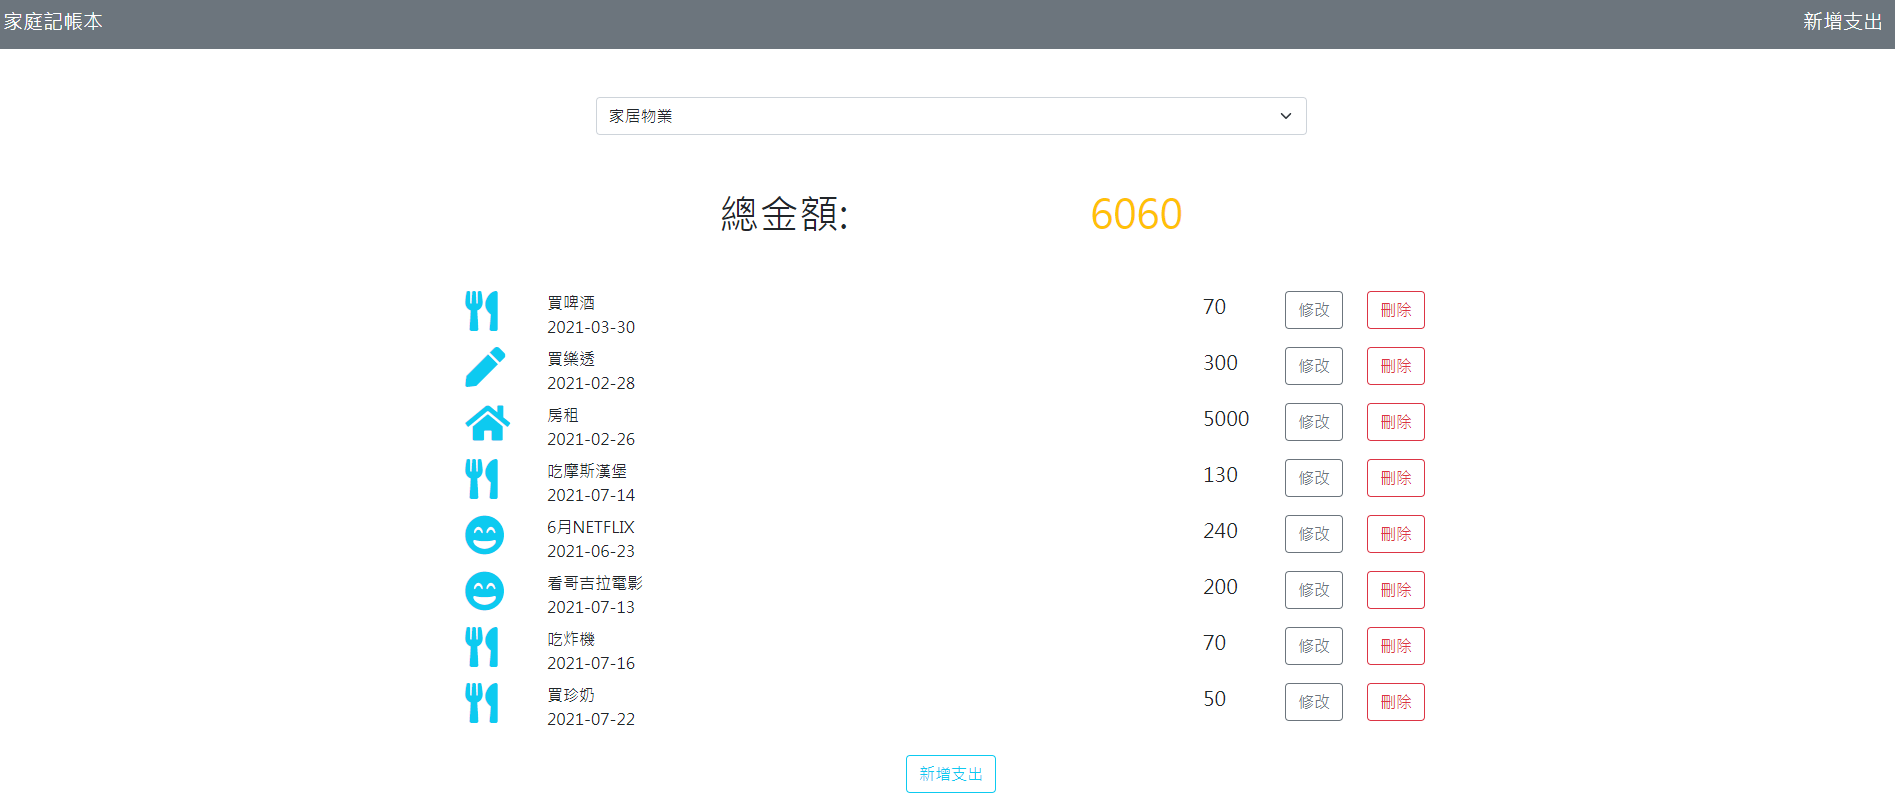
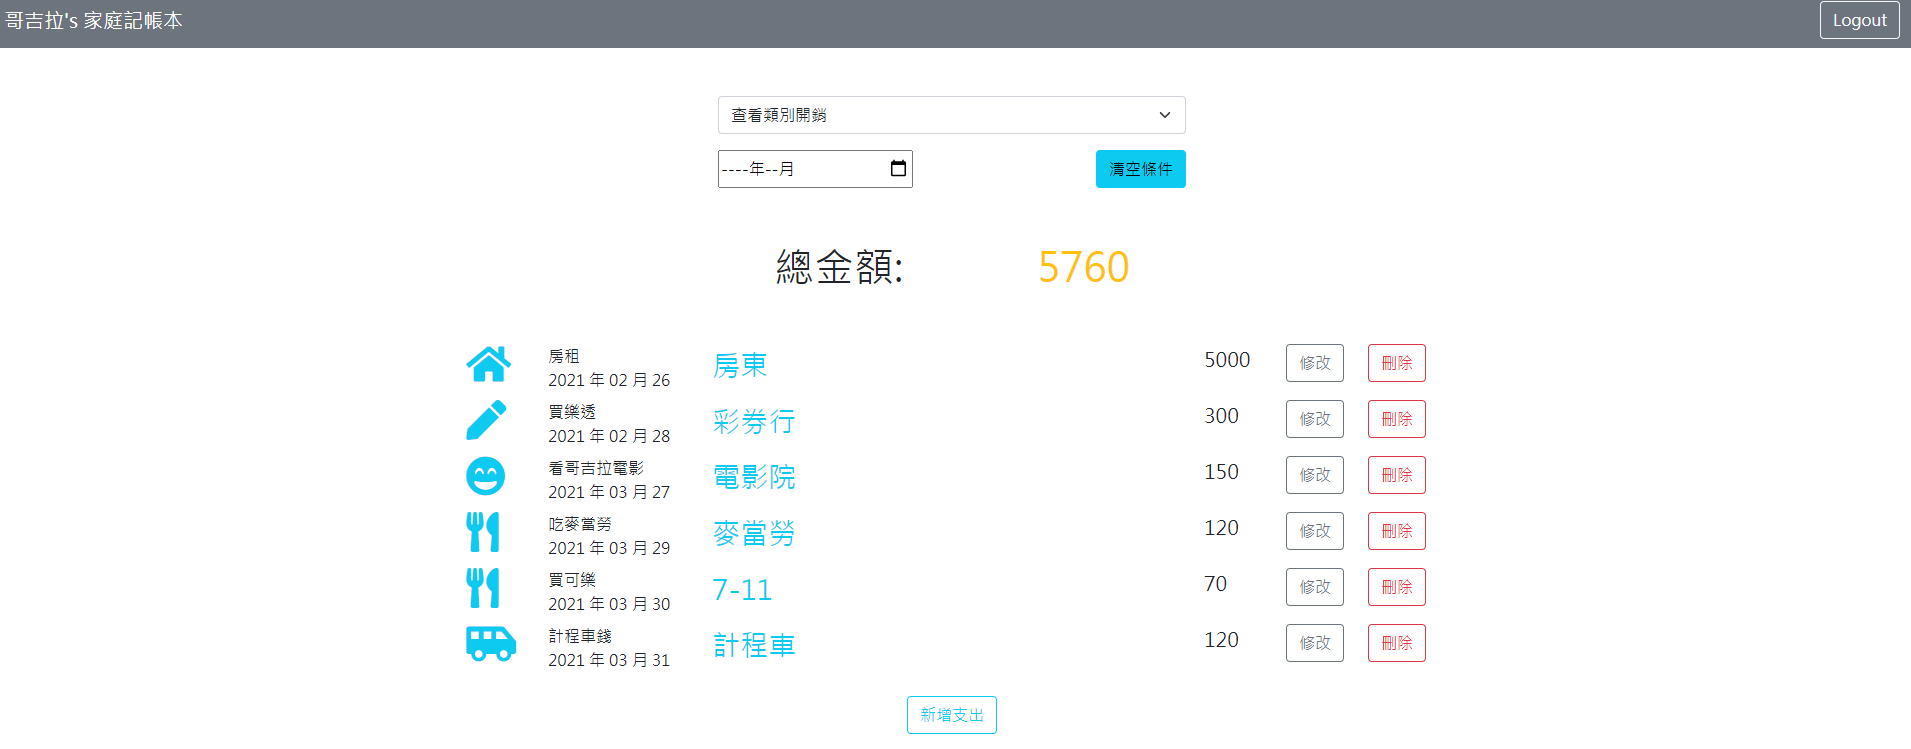
修改README和更換bootswatch主題

diff --git a/README.md b/README.md
@@ -3,15 +3,27 @@
 * 使用者可以在首頁看到:
   * 支出名稱
   * 支出日期
+  * 支出商家
   * 分類
   * 金額、總金額
+* 使用者可以用年月和分類來進行篩選
+* 使用者可以註冊帳號
+* 使用者也可以透過 Facebook Login 直接登入
 
 # 環境建置
+* bcryptjs: 2.4.3
 * body-parser: 1.19.0
+* connect-flash: 0.1.1
+* dayjs: 1.10.6
+* dotenv: 10.0.0
 * express: 4.17.1
 * express-handlebars: 5.3.2
+* express-session: 1.17.2
 * method-override: 3.0.0
 * mongoose: 5.13.3
+* passport: 0.4.1
+* passport-facebook: 3.0.0
+* passport-local: 1.0.0
 
 # CRUD功能
 * Create: 使用者可以點擊右上角和下方的的新增支出，即可新增支出
